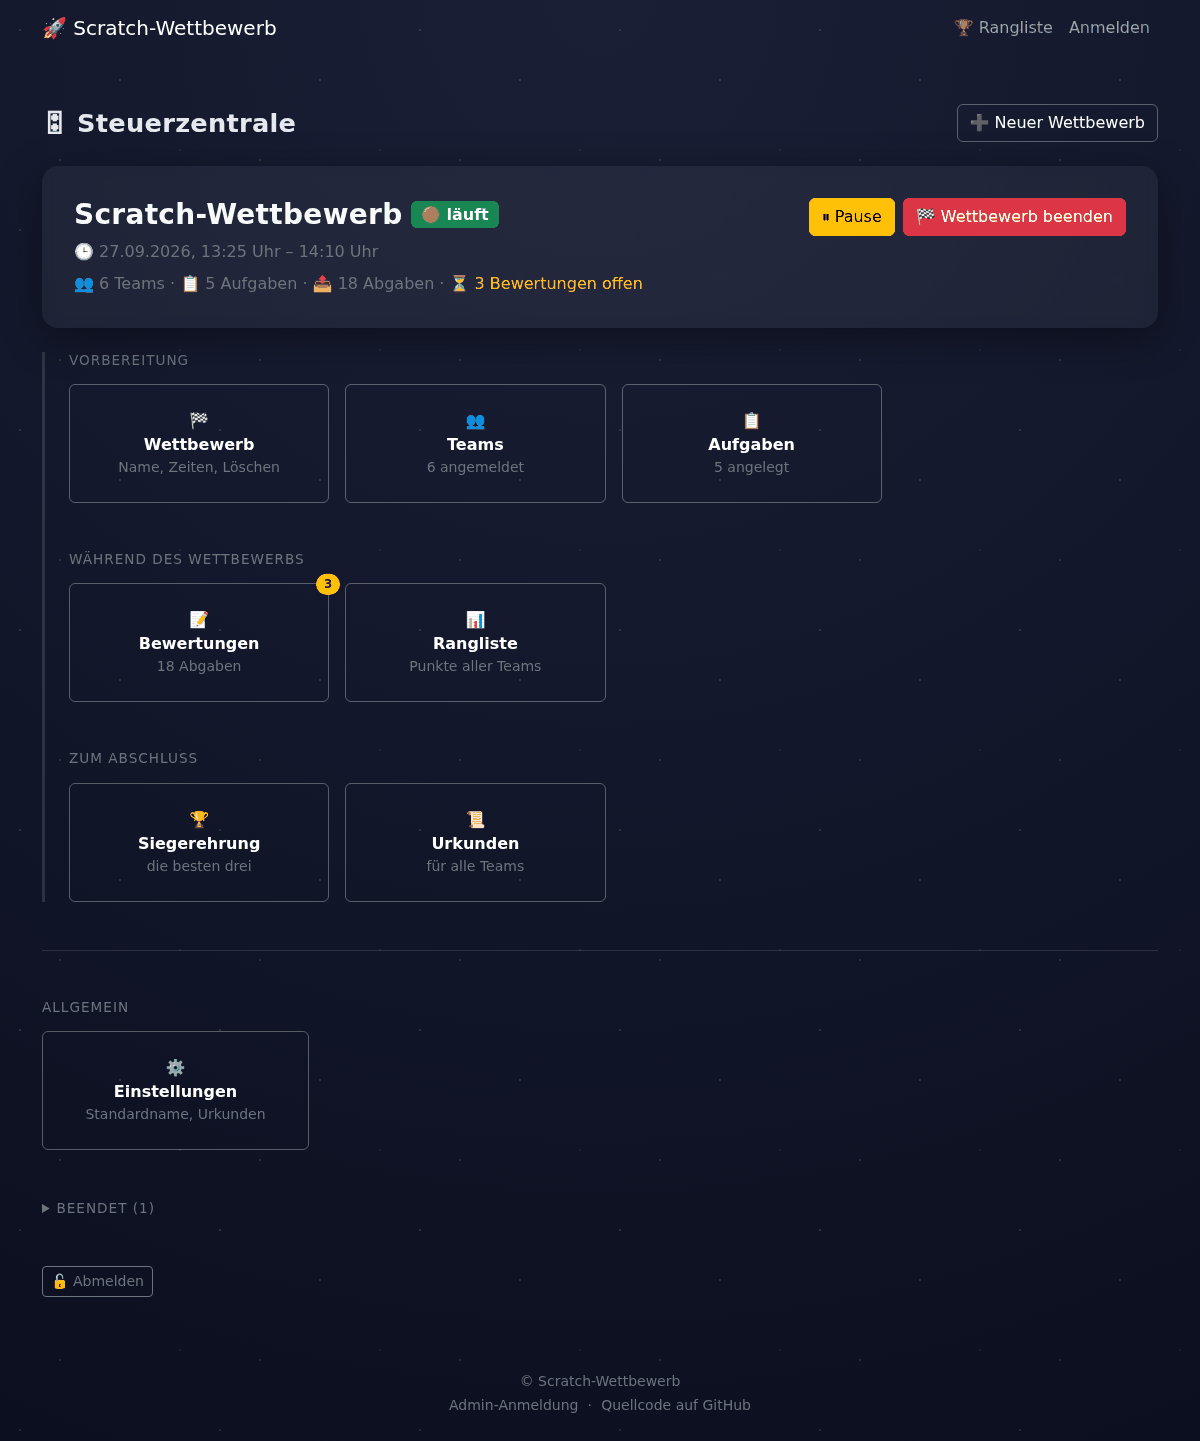
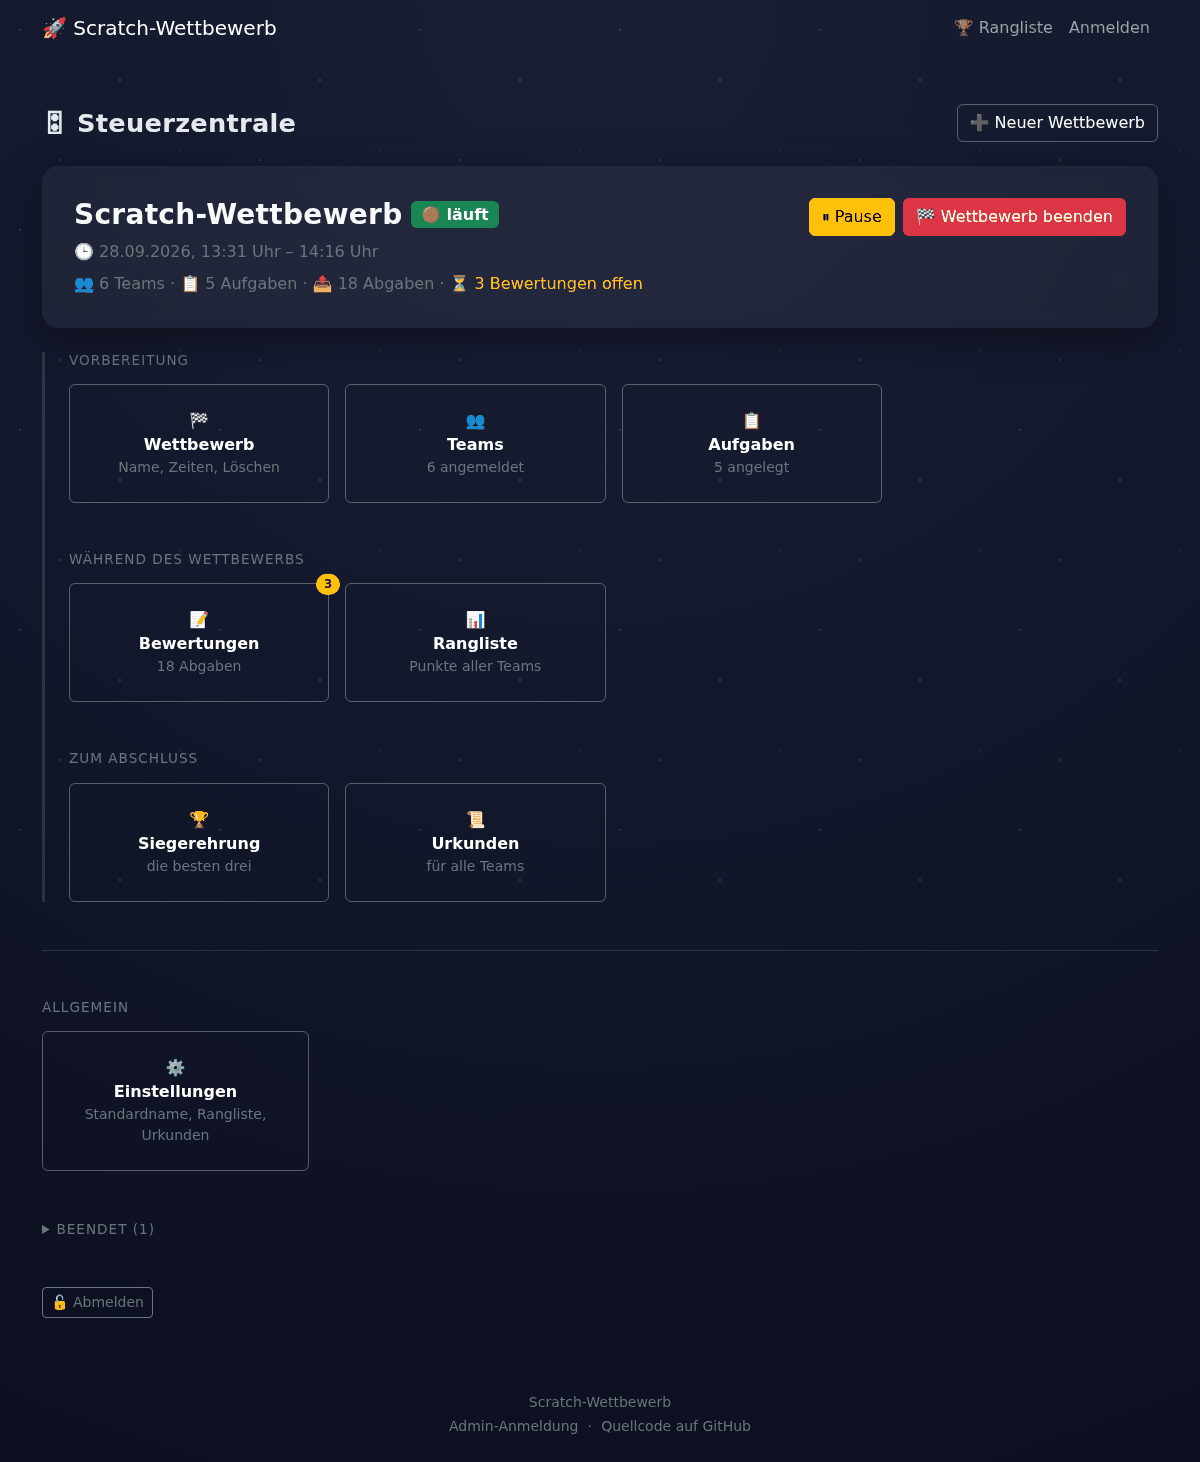
Kachel Einstellungen nennt auch die Rangliste
Hinter der Kachel liegt seit PR #97 auch der Schalter für die
Aufgabentitel der Rangliste. README-Bild der Steuerzentrale nachgestellt.

Claude-Session: https://claude.ai/code/session_01ACRifaqe4uUcFhZfaKFc9K

diff --git a/templates/admin/dashboard.html b/templates/admin/dashboard.html
@@ -44,7 +44,7 @@
   <div class="col-md-3 col-6">
     <a href="{{ url_for('admin.settings') }}" class="btn btn-outline-light w-100 h-100 py-4">
       ⚙<br><strong>Einstellungen</strong>
-      <div class="small text-secondary">Standardname, Urkunden</div>
+      <div class="small text-secondary">Standardname, Rangliste, Urkunden</div>
     </a>
   </div>
 </div>
@@ -216,7 +216,7 @@
   <div class="col-md-3 col-6">
     <a href="{{ url_for('admin.settings') }}" class="btn btn-outline-light w-100 h-100 py-4">
       ⚙<br><strong>Einstellungen</strong>
-      <div class="small text-secondary">Standardname, Urkunden</div>
+      <div class="small text-secondary">Standardname, Rangliste, Urkunden</div>
     </a>
   </div>
 </div>
